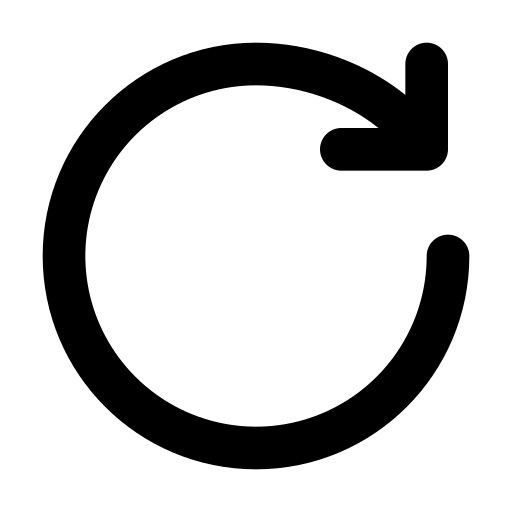
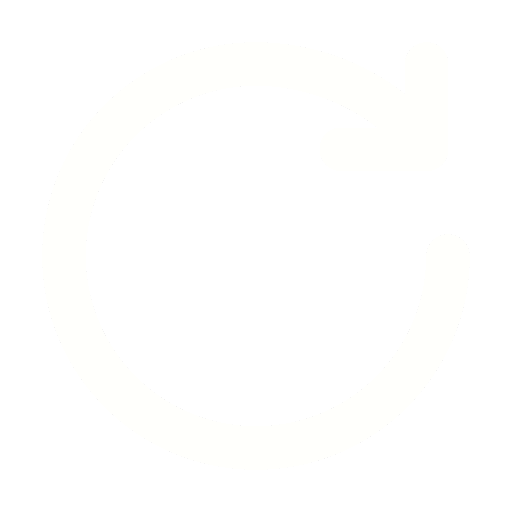
Pause hehe

Changed region(s): [[0.0625, 0.0625, 0.9375, 0.9375]]

diff --git a/App.js b/App.js
@@ -2,13 +2,19 @@ import React, {Component} from 'react';
 import {
   View,
   Text,
+  Image,
   StyleSheet,
   StatusBar,
-  Button,
+  Dimensions,
+  SafeAreaView,
   TouchableOpacity,
 } from 'react-native';
 
+import Popuped from './components/popup';
 import WheelOfFortune from 'react-native-wheel-of-fortune';
+
+const width = Dimensions.get('screen').width;
+const height = Dimensions.get('screen').height;
 
 const participants = [
   'Riz Curry',
@@ -53,77 +59,116 @@ class App extends Component {
   render() {
     const wheelOptions = {
       rewards: participants,
-      knobSize: 30,
+      knobSize: 35,
       borderWidth: -1,
 
       borderColor: '#fff',
-      innerRadius: 500,
+      innerRadius: width*1.35,
       duration: 6000,
       backgroundColor: 'transparent',
       textAngle: 'horizontal',
-      knobSource: require('./knob.png'),
+      knobSource: require('./assets/images/knob.png'),
       onRef: ref => (this.child = ref),
     };
     return (
-      <View style={styles.container}>
-        <StatusBar barStyle={'light-content'} />
-        <View style={styles.wheel}>
-          <WheelOfFortune
-            options={wheelOptions}
-            getWinner={(value, index) => {
-              this.setState({winnerValue: value, winnerIndex: index});
-            }}
-          />
-        </View>
-        {!this.state.started && (
-          <View style={styles.startButtonView}>
-            <TouchableOpacity
-              onPress={() => this.buttonPress()}
-              style={styles.startButton}>
-              <Text style={styles.startButtonText}>Spin to win!</Text>
-            </TouchableOpacity>
+      <SafeAreaView style={styles.megaContainer}> 
+          <TouchableOpacity
+            onPress={() => {
+              console.log("testo");
+            }}>
+            <Image
+              source={require('./assets/images/points.png')}
+              style={styles.ImagePoints}
+            />
+          </TouchableOpacity>       
+        <View style={styles.container}>
+          <StatusBar barStyle={'light-content'} />
+          <View style={styles.wheel}>
+            <WheelOfFortune
+              options={wheelOptions}
+              getWinner={(value, index) => {
+                this.setState({winnerValue: value, winnerIndex: index});
+              }}
+            />
           </View>
-        )}
-      </View>
+          {
+            <View style={styles.startButtonView}>
+              <TouchableOpacity
+                onPress={() => this.buttonPress()}
+                style={styles.startButton}>
+                  <Image
+                    source={require('./assets/images/reload.png')}
+                    style={styles.ImageReload}
+                  />
+              </TouchableOpacity>
+            </View>
+          }
+          {this.state.winnerIndex != null && (
+            <View style={styles.winnerView}>
+              <Text style={styles.winnerText}>
+                You win {participants[this.state.winnerIndex]}
+              </Text>
+              <TouchableOpacity
+                onPress={() => {
+                  this.setState({winnerIndex: null});
+                  this.child._tryAgain();
+                }}
+                style={styles.tryAgainButton}>
+                <Text style={styles.tryAgainText}>TRY AGAIN</Text>
+              </TouchableOpacity>
+            </View>
+          )}
+        </View>
+      </SafeAreaView>
     );
   }
 }
 export default App;
 
+console.log(height);
+
 const styles = StyleSheet.create({
+  megaContainer: {
+    flex: 1,
+    backgroundColor: '#FFADAD',
+    
+  },
   container: {
     flex: 1,
     alignItems: 'center',
     justifyContent: 'center',
-    backgroundColor: '#FFADAD'
+    backgroundColor: '#FFADAD',
+    
   },
   wheel: {
     position: 'absolute',
-    bottom: -60,
+    bottom: 10 + (height-770),
+    
   },
   startButtonView: {
     position: 'absolute',
+    alignItems: 'center',
+    
   },
   startButton: {
-    backgroundColor: 'rgba(0,0,0,.5)',
-    marginTop: 0,
-    padding: 5,
+    
+  },
+  ImageReload: {
+    top: -70,
+    width: 65,
+    height: 65,
+  },
+  ImagePoints: {
+    position: 'relative',
+    marginTop: 15,
+    marginLeft: 5,
+    width: 50,
+    height: 50,
+    
   },
   startButtonText: {
     fontSize: 50,
     color: '#fff',
     fontWeight: 'bold',
-  },
-  tryAgainButton: {
-    padding: 10,
-  },
-  tryAgainButton: {
-    padding: 5,
-    backgroundColor: 'rgba(0,0,0,0.5)',
-  },
-  tryAgainText: {
-    fontSize: 20,
-    fontWeight: 'bold',
-    color: '#fff',
   },
 });

diff --git a/components/popup.js b/components/popup.js
@@ -1,0 +1,76 @@
+// React Native Bottom Action Menu
+// https://aboutreact.com/react-native-bottom-action-menu/
+
+// import React in our code
+import React, {Component, useRef} from 'react';
+
+// import all the components we are going to use
+import {
+  StyleSheet,
+} from 'react-native';
+
+// import ActionSheet
+import ActionSheet from 'react-native-actionsheet';
+
+class PopupChoice extends Component {
+    constructor(props) {
+        super(props);
+    }
+
+    render () {
+        Popuped = () => {
+            let actionSheet = useRef();
+            var optionArray = [
+              'Carnivore',
+              'Végé',
+              'Vegan',
+              'Cancel'
+            ];
+          
+            const showActionSheet = () => {
+              //To show the Bottom ActionSheet
+              actionSheet.current.show();
+            };
+          
+            return (
+                  <ActionSheet
+                    ref={actionSheet}
+                    // Title of the Bottom Sheet
+                    title={'Which one do you like ?'}
+                    // Options Array to show in bottom sheet
+                    options={optionArray}
+                    // Define cancel button index in the option array
+                    // This will take the cancel option in bottom
+                    // and will highlight it
+                    cancelButtonIndex={4}
+                    // Highlight any specific option
+                    destructiveButtonIndex={1}
+                    onPress={(index) => {
+                      // Clicking on the option will give you alert
+                      console.log(optionArray[index]);
+                    }}
+                  />
+            );
+        };
+    }
+}
+
+const styles = StyleSheet.create({
+  buttonStyle: {
+    width: '100%',
+    height: 40,
+    padding: 10,
+    backgroundColor: '#f5821f',
+    marginTop: 30,
+  },
+  buttonTextStyle: {
+    color: 'white',
+    textAlign: 'center',
+  },
+  titleStyle: {
+    color: 'white',
+    textAlign: 'center',
+    fontSize: 20,
+    marginTop: 10,
+  },
+});
